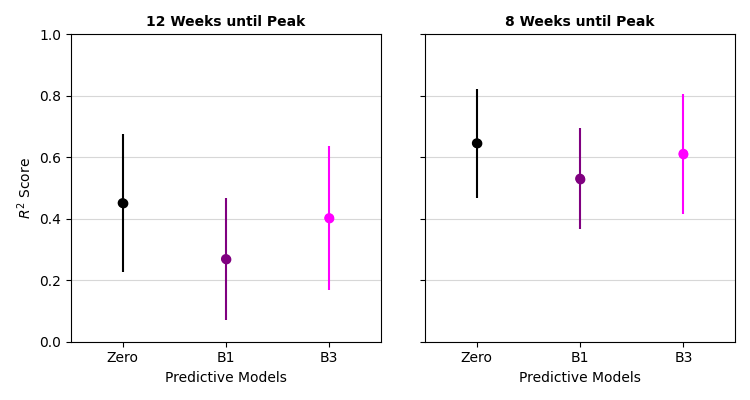
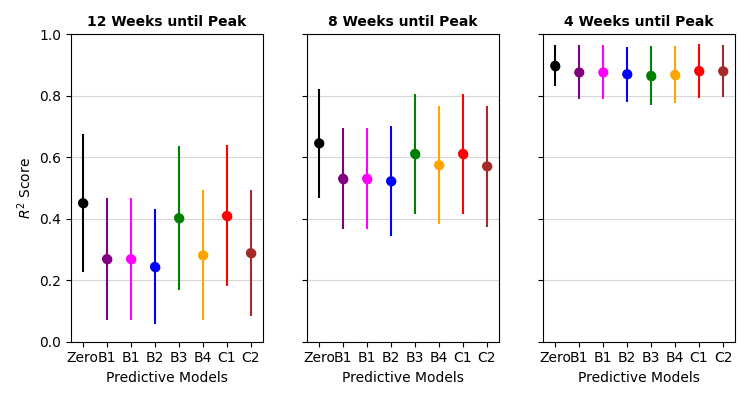
noise added

diff --git a/EvalPredictSurgeSize.py b/EvalPredictSurgeSize.py
@@ -5,8 +5,8 @@ from covid_prediction.print_features import print_selected_features
 from covid_visualization.plot_prediction import plot_performance
 from definitions import ROOT_DIR
 
-MODELS = (Zero, B1, B3) #, B1, B2, B3, B4, C1, C2)
-WEEKS = (-12, -8) #, -8, -4)
+MODELS = (Zero, B1, B1, B2, B3, B4, C1, C2)
+WEEKS = (-12, -8, -4)
 
 CV_FOLD = 20         # num of splits for cross validation
 IF_PARALLEL = True
